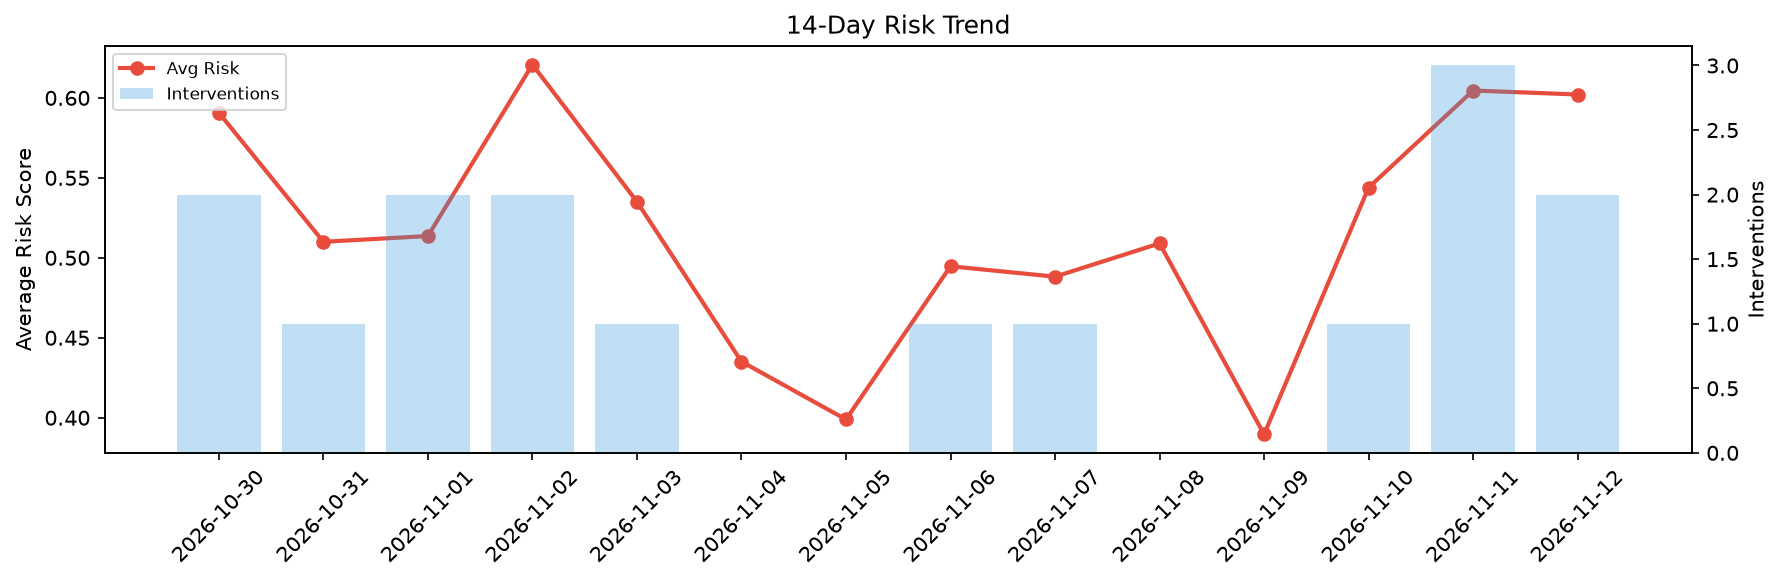
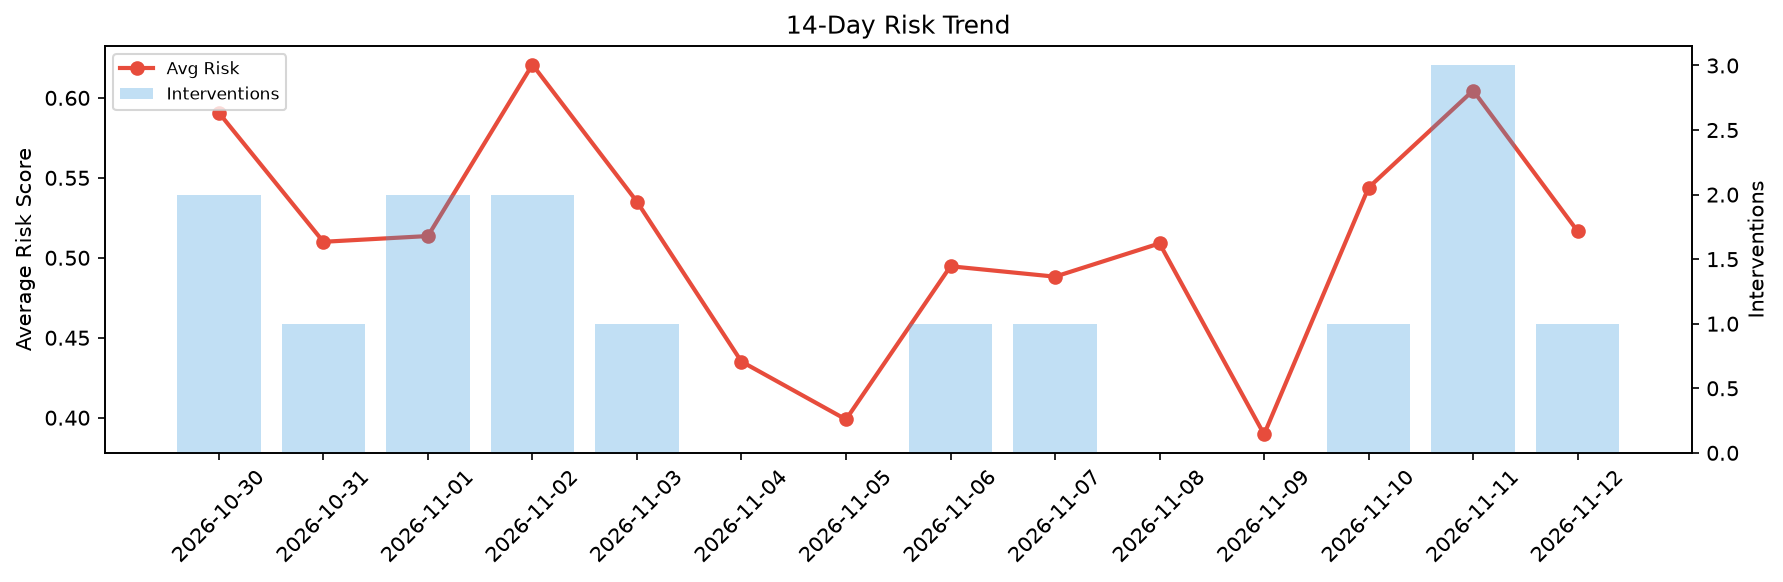
agent-improvement: daily cycle 2026-11-12T16:47

Changed region(s): [[0.8637, 0.3093, 0.9254, 0.5567], [0.8329, 0.1546, 0.8946, 0.3093]]

diff --git a/logs/2026-11-12.md b/logs/2026-11-12.md
@@ -1,6 +1,6 @@
 # Agent Improvement Report — 2026-11-12
 
-**Cycle ID:** `bcf7c530` | **Avg Risk:** 0.6021 | **Interventions:** 2/4
+**Cycle ID:** `2957807d` | **Avg Risk:** 0.5166 | **Interventions:** 1/4
 
 ![Dashboard](2026-11-12_dashboard.png)
 
@@ -10,18 +10,18 @@
 
 | Domain | Risk Score | Decision | Alerts |
 |--------|-----------|----------|--------|
-| code_review | 0.4894 | monitor | none |
-| incident_response | 0.5644 | monitor | none |
-| data_pipeline | 0.6545 | intervene | freshness, volume_anomaly |
-| deployment | 0.7001 | intervene | latency_p99 |
+| code_review | 0.2866 | monitor | none |
+| incident_response | 0.7058 | intervene | blast_radius, mttr |
+| data_pipeline | 0.5848 | monitor | volume_anomaly |
+| deployment | 0.4892 | monitor | canary_error |
 
 ## Delta vs Yesterday
 
 | Domain | Today | Yesterday | Change |
 |--------|-------|-----------|--------|
-| code_review | 0.4894 | 0.3105 | 📈 57.6% |
-| incident_response | 0.5644 | 0.8115 | 📉 -30.4% |
-| data_pipeline | 0.6545 | 0.6925 | 📉 -5.5% |
-| deployment | 0.7001 | 0.604 | 📈 15.9% |
+| code_review | 0.2866 | 0.3105 | 📉 -7.7% |
+| incident_response | 0.7058 | 0.8115 | 📉 -13.0% |
+| data_pipeline | 0.5848 | 0.6925 | 📉 -15.6% |
+| deployment | 0.4892 | 0.604 | 📉 -19.0% |
 
 **Refinement:** `{'adjustment': 'tighten_thresholds', 'trend': 'degrading', 'window': 4}`
